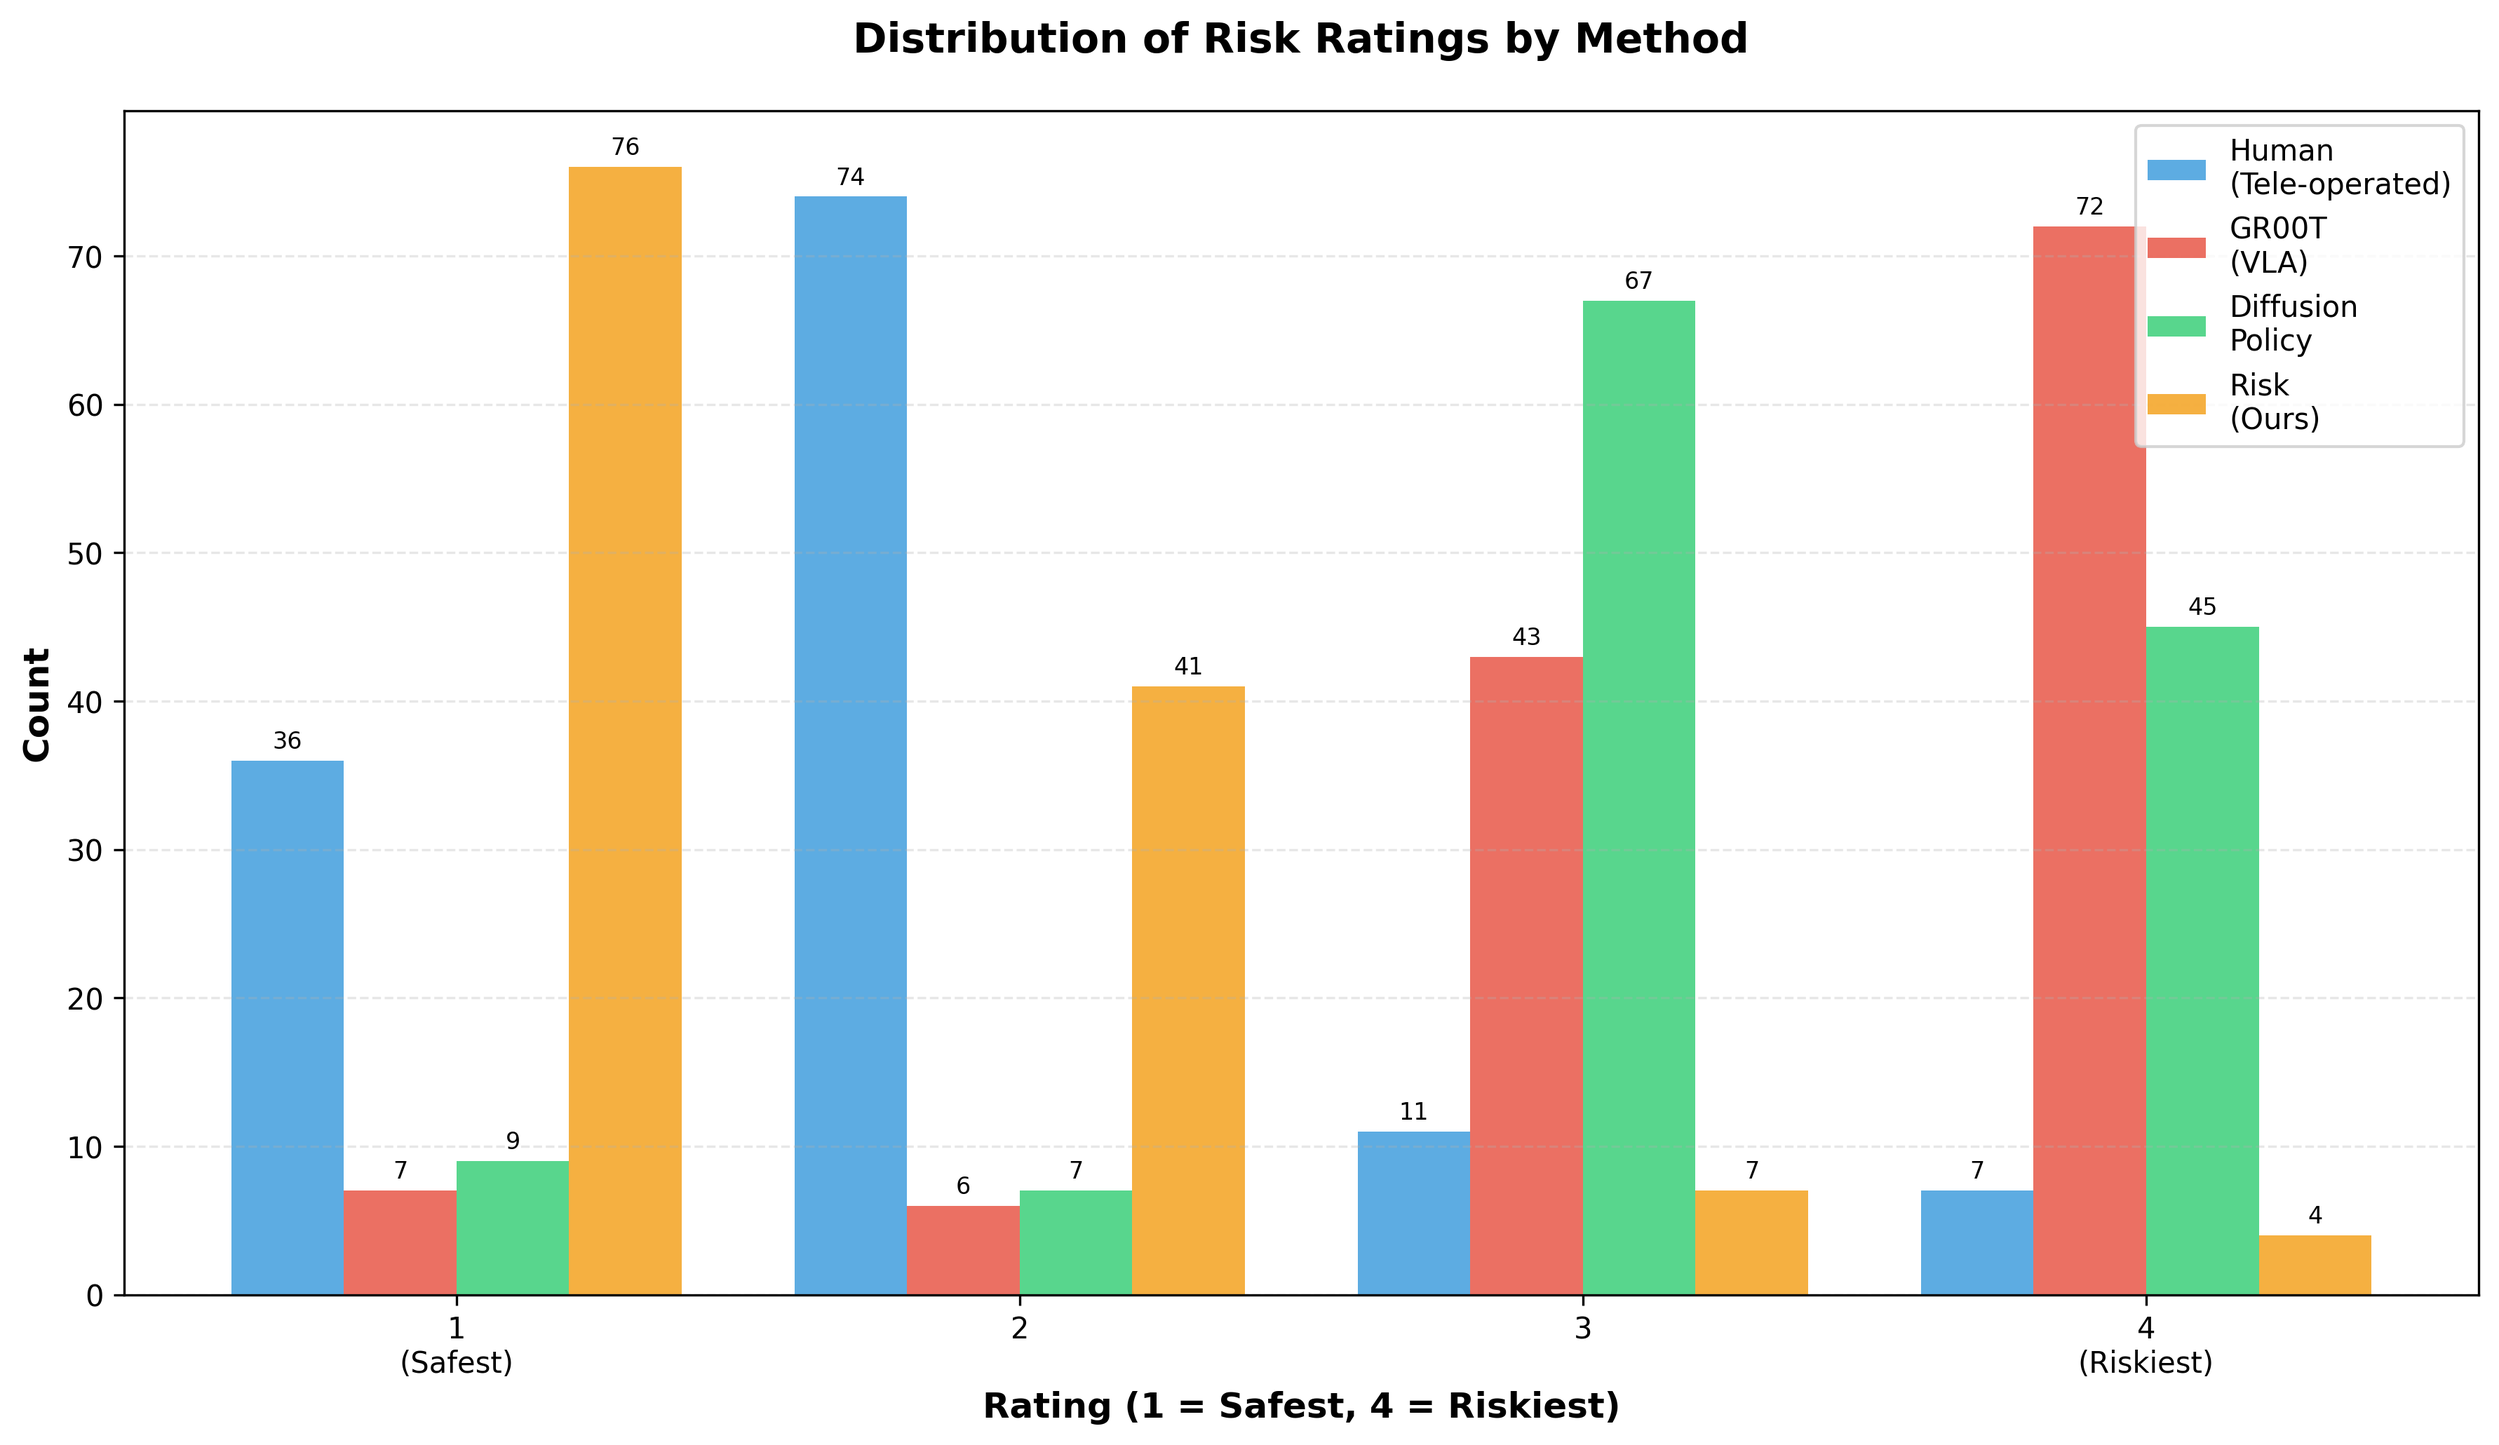
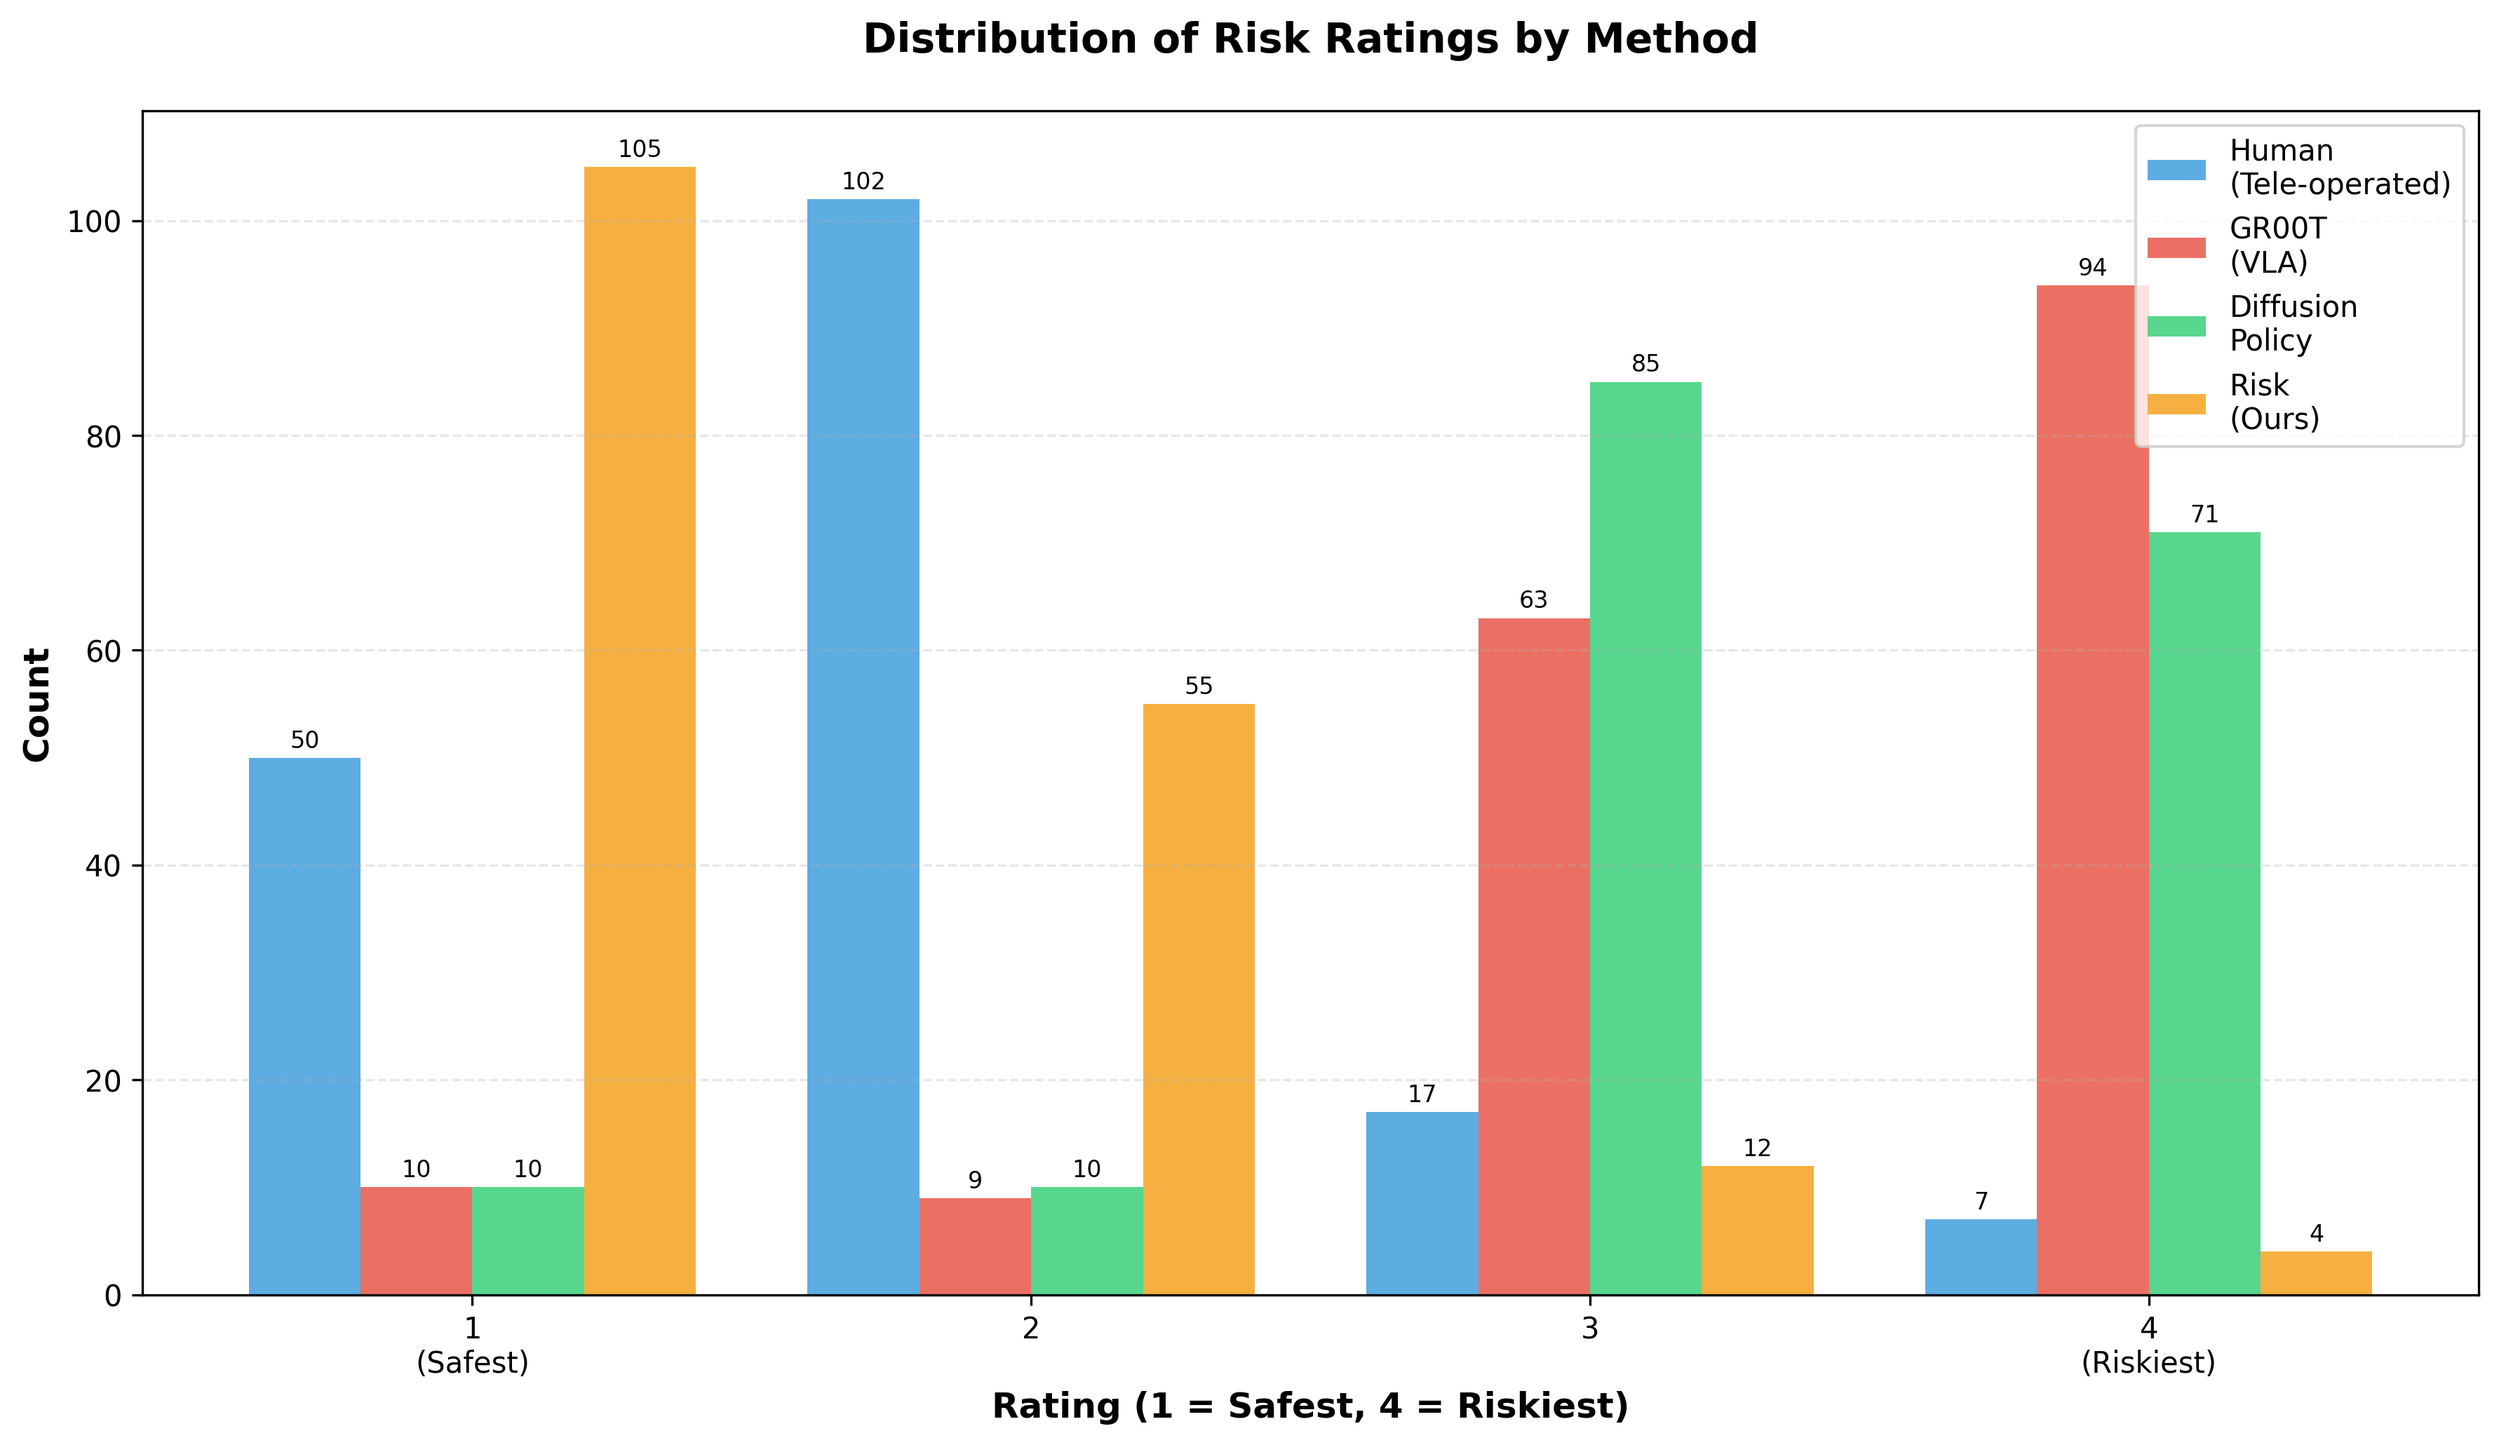
object pair rankings

diff --git a/object_pair_study.html b/object_pair_study.html
@@ -1,0 +1,134 @@
+<!DOCTYPE html>
+<html>
+<head>
+  <meta charset="utf-8">
+  <meta name="description" content="Object Pair Risk Study">
+  <meta name="keywords" content="Risk, Safety, Object Pairs, Study">
+  <meta name="viewport" content="width=device-width, initial-scale=1, minimum-scale=0.25, maximum-scale=5, user-scalable=yes">
+  <title>Object Pair Study - Semantic-Metric Bayesian Risk Fields</title>
+
+  <!-- Fonts -->
+  <link href="https://fonts.googleapis.com/css?family=Google+Sans|Noto+Sans|Castoro" rel="stylesheet">
+
+  <!-- Bulma & site CSS (Nerfies-style) -->
+  <link rel="stylesheet" href="./static/css/bulma.min.css">
+  <link rel="stylesheet" href="./static/css/bulma-carousel.min.css">
+  <link rel="stylesheet" href="./static/css/bulma-slider.min.css">
+  <link rel="stylesheet" href="./static/css/fontawesome.all.min.css">
+  <link rel="stylesheet" href="https://cdn.jsdelivr.net/gh/jpswalsh/academicons@1/css/academicons.min.css">
+  <link rel="stylesheet" href="./static/css/index.css">
+  <link rel="icon" href="./static/images/favicon.svg">
+
+  <style>
+    html { scroll-behavior: smooth; }
+    .study-container {
+      max-width: 1000px;
+      margin: 0 auto;
+      padding: 2rem;
+    }
+    .form-container {
+      background: #fff;
+      padding: 2rem;
+      border-radius: 8px;
+      box-shadow: 0 2px 8px rgba(0,0,0,0.1);
+      margin-top: 2rem;
+      min-height: 800px;
+    }
+    .form-container iframe {
+      width: 100%;
+      min-height: 1200px;
+      border: none;
+      border-radius: 8px;
+    }
+  </style>
+
+  <!-- JS -->
+  <script src="https://ajax.googleapis.com/ajax/libs/jquery/3.5.1/jquery.min.js"></script>
+  <script defer src="./static/js/fontawesome.all.min.js"></script>
+</head>
+<body>
+
+<!-- Header -->
+<section class="hero">
+  <div class="hero-body">
+    <div class="container is-max-desktop">
+      <div class="columns is-centered">
+        <div class="column has-text-centered">
+          <h1 class="title is-1 publication-title">Object Pair Risk Study</h1>
+          <div class="is-size-5 publication-authors">
+            <span class="author-block">
+              Semantic-Metric Bayesian Risk Fields
+            </span>
+          </div>
+          <div class="column has-text-centered" style="margin-top: 1rem;">
+            <a href="index.html" class="button is-light is-rounded">
+              <span class="icon"><i class="fas fa-arrow-left"></i></span>
+              <span>Back to Main Page</span>
+            </a>
+          </div>
+        </div>
+      </div>
+    </div>
+  </div>
+</section>
+
+<!-- Study Instructions -->
+<section class="section">
+  <div class="study-container">
+    <div class="content has-text-centered">
+      <h2 class="title is-3">Study Instructions</h2>
+      <p style="max-width: 900px; margin: 0 auto 1rem auto;">
+        In this study, you will be asked to evaluate the risk of placing different objects near each other.
+        Please rate each object pair based on how risky you think it would be to place them in close proximity.
+      </p>
+      <p style="max-width: 900px; margin: 0 auto 1rem auto;">
+        <strong>What does "high risk" mean?</strong>
+        An object pair is considered high risk when placing them near each other could result in damage, malfunction, or hazards.
+        For example, placing water near electronics is high risk due to potential electrical damage,
+        placing a knife near fragile objects is risky due to potential breakage,
+        and placing heavy objects near delicate items creates risk of crushing or damage.
+      </p>
+      <p style="max-width: 900px; margin: 0 auto 1rem auto;">
+        <strong>What does "low risk" mean?</strong>
+        An object pair is considered low risk when they can safely coexist without danger of damage or harm.
+        For example, placing a book near a pen, a plate near utensils, or similar non-reactive items together.
+      </p>
+      <p style="max-width: 900px; margin: 0 auto;">
+        <strong>How to fill out the study:</strong>
+        Please review each object pair and rate the risk level based on potential hazards, material interactions, and common sense safety.
+      </p>
+    </div>
+
+    <!-- Google Form Container -->
+    <div class="form-container">
+      <iframe
+        src="https://docs.google.com/forms/d/e/1FAIpQLSfk_VjY5U9Khm3ooX4JE-TDQy_zBAt-nrFnPqmGmRTZi-cTkQ/viewform?embedded=true"
+        width="640"
+        height="2550"
+        frameborder="0"
+        marginheight="0"
+        marginwidth="0">
+        Loading…
+      </iframe>
+    </div>
+
+  </div>
+</section>
+
+<!-- Footer -->
+<footer class="footer">
+  <div class="container">
+    <div class="columns is-centered">
+      <div class="column is-8">
+        <div class="content">
+          <p>
+            This website is licensed under a <a rel="license" href="http://creativecommons.org/licenses/by-sa/4.0/">Creative Commons Attribution-ShareAlike 4.0 International License</a>.
+          </p>
+        </div>
+      </div>
+    </div>
+  </div>
+</footer>
+
+</body>
+</html>

diff --git a/index.html b/index.html
@@ -413,6 +413,7 @@
         <a class="subnav-link" href="#risk-aware-robot-navigation">Risk-aware Robot Navigation</a>
         <a class="subnav-link" href="study.html">Study</a>
         <a class="subnav-link" href="study_val_funct.html">Shelf Study</a>
+        <a class="subnav-link" href="object_pair_study.html">Object Pairs</a>
       </div>
     </div>
   </div>

diff --git a/scripts/analyze_risk_responses.py b/scripts/analyze_risk_responses.py
@@ -1,0 +1,159 @@
+#!/usr/bin/env python3
+"""
+Analyze risk value survey responses and create distribution charts for
+Shelf and Kitchen environments.
+"""
+
+import pandas as pd
+import matplotlib.pyplot as plt
+import numpy as np
+import re
+
+def extract_rating(rating_str):
+    """Extract numeric rating from string like '1 (Safest)' or '5 (Most Risky)'"""
+    if pd.isna(rating_str):
+        return None
+    # Extract the first digit
+    match = re.search(r'(\d+)', str(rating_str))
+    if match:
+        return int(match.group(1))
+    return None
+
+def analyze_responses(csv_path):
+    """Read CSV and extract location ratings"""
+    df = pd.read_csv(csv_path)
+
+    # Shelf environment locations
+    shelf_locations = ['Shelf 1', 'Shelf 2', 'Shelf 3', 'Shelf 4', 'Shelf 5']
+
+    # Kitchen environment locations
+    kitchen_locations = [
+        'Kitchen to Coffee Machine',
+        'Kitchen to Fridge',
+        'Kitchen to Laptop',
+        'Kitchen to Microwave',
+        'Kitchen to Monitor'
+    ]
+
+    # Initialize counts: location -> rating -> count
+    shelf_ratings = {loc: {1: 0, 2: 0, 3: 0, 4: 0, 5: 0} for loc in shelf_locations}
+    kitchen_ratings = {loc: {1: 0, 2: 0, 3: 0, 4: 0, 5: 0} for loc in kitchen_locations}
+
+    # Process each response (row)
+    for idx, row in df.iterrows():
+        # Skip header row if it exists
+        if idx == 0 and 'Timestamp' in str(row.iloc[0]):
+            continue
+
+        # Process Shelf environment (columns 1-5, after Timestamp)
+        for i, location in enumerate(shelf_locations):
+            col_name = f'Shelf Environment while holding a Solo Cup, least to most risky [{location}]'
+            if col_name in df.columns:
+                rating = extract_rating(row[col_name])
+                if rating is not None:
+                    shelf_ratings[location][rating] += 1
+
+        # Process Kitchen environment (columns 6-10)
+        for i, location in enumerate(kitchen_locations):
+            col_name = f'Kitchen Environment while holding a Solo Cup, least to most risky [{location}]'
+            if col_name in df.columns:
+                rating = extract_rating(row[col_name])
+                if rating is not None:
+                    kitchen_ratings[location][rating] += 1
+
+    return shelf_ratings, kitchen_ratings
+
+def plot_environment_distribution(location_ratings, title, output_path):
+    """Create a grouped bar chart showing rating distribution per location"""
+    fig, ax = plt.subplots(figsize=(14, 8))
+
+    # Prepare data for plotting
+    locations = list(location_ratings.keys())
+    ratings = [1, 2, 3, 4, 5]
+
+    # Width of bars and positions
+    x = np.arange(len(locations))
+    width = 0.15
+
+    # Colors for each rating
+    colors = ['#2ecc71', '#3498db', '#f39c12', '#e67e22', '#e74c3c']
+    rating_labels = ['1 (Least Risky)', '2', '3', '4', '5 (Most Risky)']
+
+    # Plot bars for each rating
+    for i, (rating, color, label) in enumerate(zip(ratings, colors, rating_labels)):
+        counts = [location_ratings[location][rating] for location in locations]
+        offset = (i - 2) * width
+        ax.bar(x + offset, counts, width, label=label, color=color, alpha=0.8)
+
+    # Customize plot
+    ax.set_xlabel('Location', fontsize=12, fontweight='bold')
+    ax.set_ylabel('Count', fontsize=12, fontweight='bold')
+    ax.set_title(title, fontsize=14, fontweight='bold', pad=20)
+    ax.set_xticks(x)
+    # Shorten labels for better fit
+    location_labels = [loc.replace('Kitchen to ', '') if 'Kitchen to' in loc else loc for loc in locations]
+    ax.set_xticklabels(location_labels, rotation=15, ha='right')
+    ax.legend(loc='upper right', fontsize=9)
+    ax.grid(axis='y', alpha=0.3, linestyle='--')
+
+    # Add value labels on bars
+    for i, rating in enumerate(ratings):
+        counts = [location_ratings[location][rating] for location in locations]
+        offset = (i - 2) * width
+        for j, count in enumerate(counts):
+            if count > 0:
+                ax.text(j + offset, count + 0.2, str(count),
+                       ha='center', va='bottom', fontsize=7)
+
+    plt.tight_layout()
+    plt.savefig(output_path, dpi=300, bbox_inches='tight')
+    print(f"Plot saved to {output_path}")
+    plt.close()
+
+    return fig
+
+def print_summary(location_ratings, environment_name):
+    """Print summary statistics"""
+    print(f"\n{'='*70}")
+    print(f"{environment_name.upper()} RATING DISTRIBUTION SUMMARY")
+    print('='*70)
+
+    for location in location_ratings.keys():
+        print(f"\n{location}:")
+        total = sum(location_ratings[location].values())
+
+        if total > 0:
+            for rating in [1, 2, 3, 4, 5]:
+                count = location_ratings[location][rating]
+                pct = (count / total * 100) if total > 0 else 0
+                print(f"  Rating {rating}: {count:3d} ({pct:5.1f}%)")
+
+            # Calculate average rating
+            avg = sum(rating * count for rating, count in location_ratings[location].items()) / total
+            print(f"  Average: {avg:.2f}")
+            print(f"  Total:   {total}")
+
+if __name__ == '__main__':
+    csv_path = '/home/admin/Projects/bayesian_risk-website/scripts/risk_value_responses.csv'
+
+    print("Analyzing risk value survey responses...")
+    shelf_ratings, kitchen_ratings = analyze_responses(csv_path)
+
+    # Print summaries
+    print_summary(shelf_ratings, "Shelf Environment")
+    print_summary(kitchen_ratings, "Kitchen Environment")
+
+    # Generate visualizations
+    print("\nGenerating visualizations...")
+    plot_environment_distribution(
+        shelf_ratings,
+        'Shelf Environment - Risk Rating Distribution',
+        'shelf_risk_distribution.png'
+    )
+    plot_environment_distribution(
+        kitchen_ratings,
+        'Kitchen Environment - Risk Rating Distribution',
+        'kitchen_risk_distribution.png'
+    )
+
+    print("\nAnalysis complete!")
